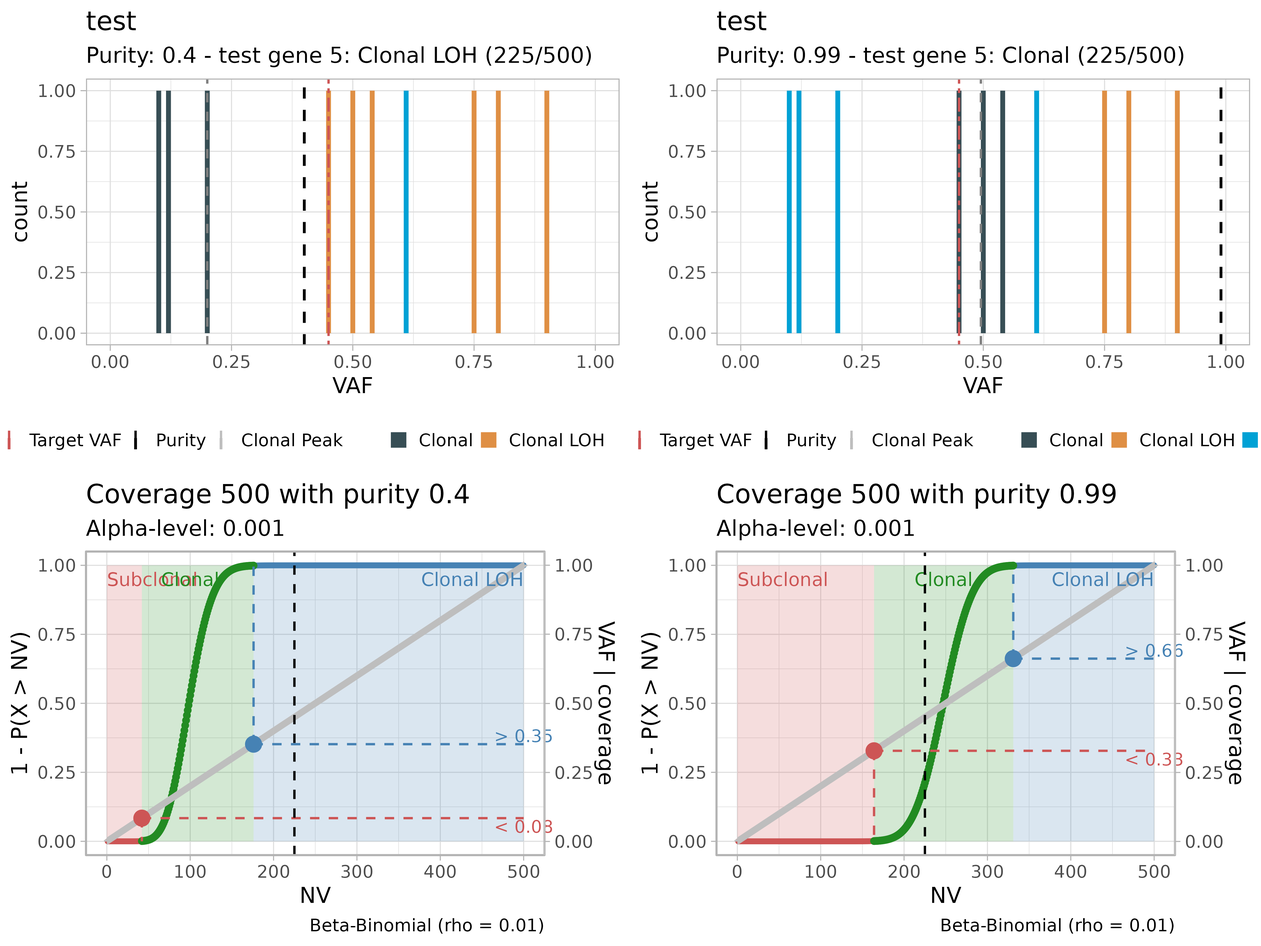
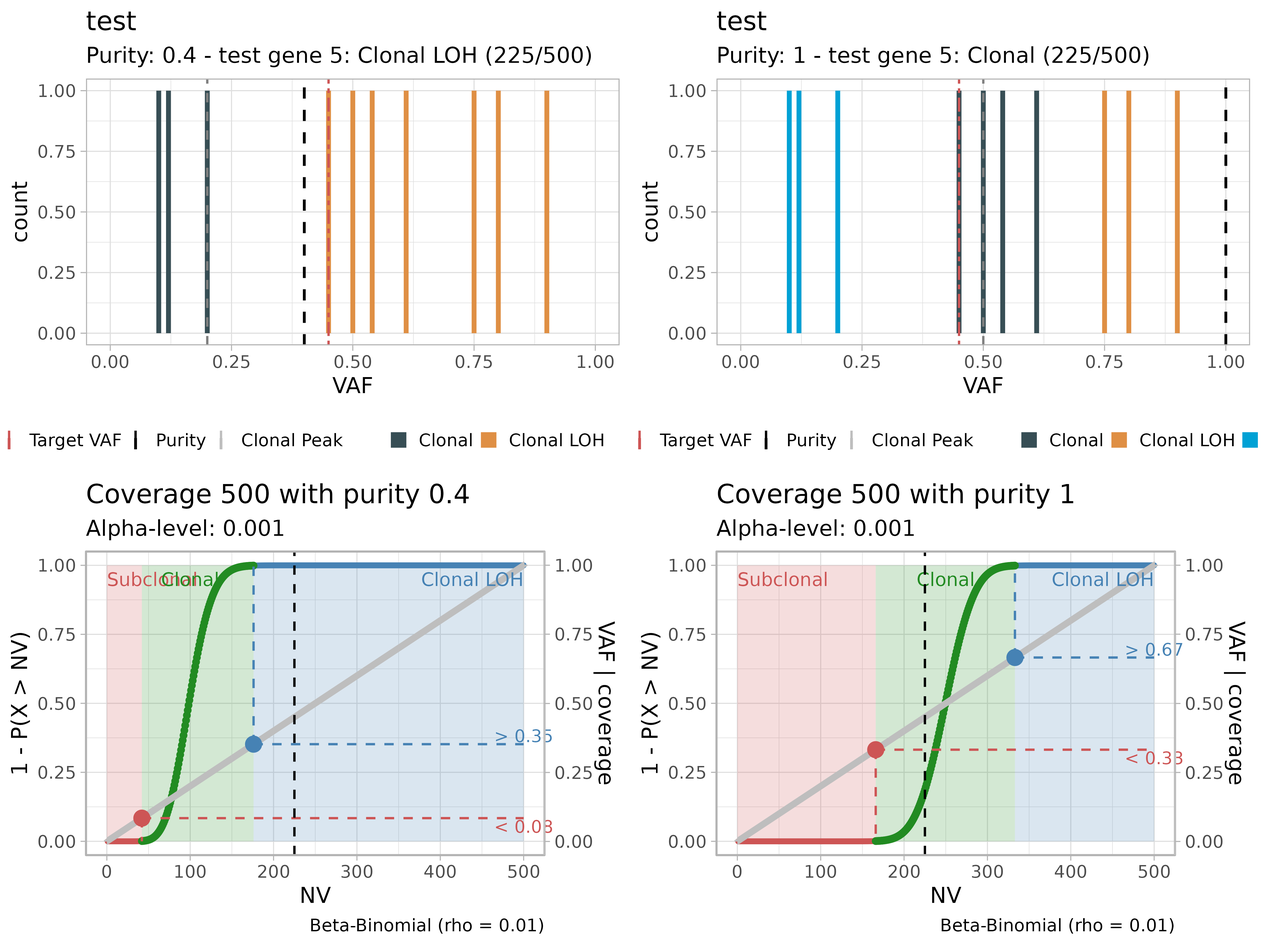
Deploying to gh-pages from @ caravagnalab/TAPACLOTH@dc2b1d9b0dccef9fcf69773aba0dadcae203551f 🚀

diff --git a/articles/purity-estimates.html b/articles/purity-estimates.html
@@ -118,7 +118,7 @@
 <div class="sourceCode" id="cb2"><pre class="downlit sourceCode r">
 <code class="sourceCode R"><span class="va">data</span> <span class="op">=</span> <span class="fu">dplyr</span><span class="fu">::</span><span class="fu"><a href="https://tibble.tidyverse.org/reference/tibble.html" class="external-link">tibble</a></span><span class="op">(</span>sample <span class="op">=</span> <span class="st">"test"</span>,
            gene <span class="op">=</span> <span class="fu"><a href="https://rdrr.io/r/base/paste.html" class="external-link">paste0</a></span><span class="op">(</span><span class="st">"test gene "</span>, <span class="fl">1</span><span class="op">:</span><span class="fl">10</span><span class="op">)</span>,
-           nv <span class="op">=</span> <span class="fu"><a href="https://rdrr.io/r/base/c.html" class="external-link">c</a></span><span class="op">(</span><span class="fl">50</span>, <span class="fl">60</span>, <span class="fl">100</span>, <span class="fl">250</span>, <span class="fl">225</span>, <span class="fl">270</span>, <span class="fl">35</span>, <span class="fl">375</span>, <span class="fl">400</span>, <span class="fl">450</span><span class="op">)</span>,
+           nv <span class="op">=</span> <span class="fu"><a href="https://rdrr.io/r/base/c.html" class="external-link">c</a></span><span class="op">(</span><span class="fl">10</span>, <span class="fl">12</span>, <span class="fl">20</span>, <span class="fl">50</span>, <span class="fl">45</span>, <span class="fl">54</span>, <span class="fl">61</span>, <span class="fl">75</span>, <span class="fl">80</span>, <span class="fl">90</span><span class="op">)</span><span class="op">*</span><span class="fl">5</span>,
            dp <span class="op">=</span> <span class="fl">500</span>,
            VAF <span class="op">=</span> <span class="fu"><a href="https://rdrr.io/r/base/c.html" class="external-link">c</a></span><span class="op">(</span><span class="fl">10</span>, <span class="fl">12</span>, <span class="fl">20</span>, <span class="fl">50</span>, <span class="fl">45</span>, <span class="fl">54</span>, <span class="fl">61</span>, <span class="fl">75</span>, <span class="fl">80</span>, <span class="fl">90</span><span class="op">)</span><span class="op">/</span><span class="fl">100</span>,
            purity <span class="op">=</span> <span class="fl">1</span>
@@ -134,7 +134,7 @@
 <span class="co">#&gt; <span style="color: #BCBCBC;"> 4</span> test   test gene 4    250   500  0.5       1</span>
 <span class="co">#&gt; <span style="color: #BCBCBC;"> 5</span> test   test gene 5    225   500  0.45      1</span>
 <span class="co">#&gt; <span style="color: #BCBCBC;"> 6</span> test   test gene 6    270   500  0.54      1</span>
-<span class="co">#&gt; <span style="color: #BCBCBC;"> 7</span> test   test gene 7     35   500  0.61      1</span>
+<span class="co">#&gt; <span style="color: #BCBCBC;"> 7</span> test   test gene 7    305   500  0.61      1</span>
 <span class="co">#&gt; <span style="color: #BCBCBC;"> 8</span> test   test gene 8    375   500  0.75      1</span>
 <span class="co">#&gt; <span style="color: #BCBCBC;"> 9</span> test   test gene 9    400   500  0.8       1</span>
 <span class="co">#&gt; <span style="color: #BCBCBC;">10</span> test   test gene 10   450   500  0.9       1</span></code></pre></div>
@@ -170,10 +170,10 @@
 <span class="co">#&gt; <span style="color: #00BBBB;">ℹ</span> <span style="font-weight: bold;">Bmix best fit</span> completed in 0 mins</span>
 <span class="co">#&gt; ── <span style="color: #000000; background-color: #BBBB00;">[ BMix ] My BMix model</span> n = 10 with <span style="color: #00BB00;">k = 3</span> component(s) (<span style="color: #00BB00;">3</span> + <span style="color: #00BB00;">0</span>) ───────────────</span>
 <span class="co">#&gt; • Clusters: π = 40% [<span style="color: #BBBB00;">Bin 2</span>], 30% [<span style="color: #BBBB00;">Bin 1</span>], and 30% [<span style="color: #BBBB00;">Bin 3</span>], with π &gt; 0.</span>
-<span class="co">#&gt; • Binomial <span style="color: #00BB00;">Bin 1</span> with mean = 0.496666666666667.</span>
-<span class="co">#&gt; • Binomial <span style="color: #00BB00;">Bin 2</span> with mean = 0.1225.</span>
-<span class="co">#&gt; • Binomial <span style="color: #00BB00;">Bin 3</span> with mean = 0.816666666666667.</span>
-<span class="co">#&gt; <span style="color: #00BBBB;">ℹ</span> Score (model selection): <span style="color: #00BB00;">ICL</span> = 188.55.</span>
+<span class="co">#&gt; • Binomial <span style="color: #00BB00;">Bin 1</span> with mean = 0.816666666666667.</span>
+<span class="co">#&gt; • Binomial <span style="color: #00BB00;">Bin 2</span> with mean = 0.525.</span>
+<span class="co">#&gt; • Binomial <span style="color: #00BB00;">Bin 3</span> with mean = 0.14.</span>
+<span class="co">#&gt; <span style="color: #00BBBB;">ℹ</span> Score (model selection): <span style="color: #00BB00;">ICL</span> = 196.12.</span>
 <span class="co">#&gt; Warning: `guides(&lt;scale&gt; = FALSE)` is deprecated. Please use `guides(&lt;scale&gt; =</span>
 <span class="co">#&gt; "none")` instead.</span>
 <span class="co">#&gt; Warning: Removed 6 rows containing missing values (geom_bar).</span>
@@ -183,29 +183,29 @@
 <span class="co">#&gt; ── <span style="color: #000000; background-color: #BB00BB;">[ TAPACLOTH ] </span> Purity estimate using BMix:  ─────────────────────────────────</span>
 <span class="co">#&gt; ── <span style="color: #000000; background-color: #BBBB00;">[ BMix ] My BMix model</span> n = 10 with <span style="color: #00BB00;">k = 3</span> component(s) (<span style="color: #00BB00;">3</span> + <span style="color: #00BB00;">0</span>) ───────────────</span>
 <span class="co">#&gt; • Clusters: π = 40% [<span style="color: #BBBB00;">Bin 2</span>], 30% [<span style="color: #BBBB00;">Bin 1</span>], and 30% [<span style="color: #BBBB00;">Bin 3</span>], with π &gt; 0.</span>
-<span class="co">#&gt; • Binomial <span style="color: #00BB00;">Bin 1</span> with mean = 0.496666666666667.</span>
-<span class="co">#&gt; • Binomial <span style="color: #00BB00;">Bin 2</span> with mean = 0.1225.</span>
-<span class="co">#&gt; • Binomial <span style="color: #00BB00;">Bin 3</span> with mean = 0.816666666666667.</span>
-<span class="co">#&gt; <span style="color: #00BBBB;">ℹ</span> Score (model selection): <span style="color: #00BB00;">ICL</span> = 188.55.</span>
+<span class="co">#&gt; • Binomial <span style="color: #00BB00;">Bin 1</span> with mean = 0.816666666666667.</span>
+<span class="co">#&gt; • Binomial <span style="color: #00BB00;">Bin 2</span> with mean = 0.525.</span>
+<span class="co">#&gt; • Binomial <span style="color: #00BB00;">Bin 3</span> with mean = 0.14.</span>
+<span class="co">#&gt; <span style="color: #00BBBB;">ℹ</span> Score (model selection): <span style="color: #00BB00;">ICL</span> = 196.12.</span>
 <span class="co">#&gt; ── <span style="color: #000000; background-color: #BB00BB;">[ TAPACLOTH ] </span> Data:  ───────────────────────────────────────────────────────</span>
 <span class="co">#&gt; <span style="color: #949494;"># A tibble: 10 × 8</span></span>
 <span class="co">#&gt;    sample gene            nv    dp   VAF purity purity_bmix reliability</span>
 <span class="co">#&gt;    <span style="color: #949494; font-style: italic;">&lt;chr&gt;</span>  <span style="color: #949494; font-style: italic;">&lt;chr&gt;</span>        <span style="color: #949494; font-style: italic;">&lt;dbl&gt;</span> <span style="color: #949494; font-style: italic;">&lt;dbl&gt;</span> <span style="color: #949494; font-style: italic;">&lt;dbl&gt;</span>  <span style="color: #949494; font-style: italic;">&lt;dbl&gt;</span>       <span style="color: #949494; font-style: italic;">&lt;dbl&gt;</span>       <span style="color: #949494; font-style: italic;">&lt;dbl&gt;</span></span>
-<span class="co">#&gt; <span style="color: #BCBCBC;"> 1</span> test   test gene 1     50   500  0.1       1        0.99       0.993</span>
-<span class="co">#&gt; <span style="color: #BCBCBC;"> 2</span> test   test gene 2     60   500  0.12      1        0.99       0.993</span>
-<span class="co">#&gt; <span style="color: #BCBCBC;"> 3</span> test   test gene 3    100   500  0.2       1        0.99       0.993</span>
-<span class="co">#&gt; <span style="color: #BCBCBC;"> 4</span> test   test gene 4    250   500  0.5       1        0.99       0.993</span>
-<span class="co">#&gt; <span style="color: #BCBCBC;"> 5</span> test   test gene 5    225   500  0.45      1        0.99       0.993</span>
-<span class="co">#&gt; <span style="color: #BCBCBC;"> 6</span> test   test gene 6    270   500  0.54      1        0.99       0.993</span>
-<span class="co">#&gt; <span style="color: #BCBCBC;"> 7</span> test   test gene 7     35   500  0.61      1        0.99       0.993</span>
-<span class="co">#&gt; <span style="color: #BCBCBC;"> 8</span> test   test gene 8    375   500  0.75      1        0.99       0.993</span>
-<span class="co">#&gt; <span style="color: #BCBCBC;"> 9</span> test   test gene 9    400   500  0.8       1        0.99       0.993</span>
-<span class="co">#&gt; <span style="color: #BCBCBC;">10</span> test   test gene 10   450   500  0.9       1        0.99       0.993</span></code></pre></div>
+<span class="co">#&gt; <span style="color: #BCBCBC;"> 1</span> test   test gene 1     50   500  0.1       1           1       0.952</span>
+<span class="co">#&gt; <span style="color: #BCBCBC;"> 2</span> test   test gene 2     60   500  0.12      1           1       0.952</span>
+<span class="co">#&gt; <span style="color: #BCBCBC;"> 3</span> test   test gene 3    100   500  0.2       1           1       0.952</span>
+<span class="co">#&gt; <span style="color: #BCBCBC;"> 4</span> test   test gene 4    250   500  0.5       1           1       0.952</span>
+<span class="co">#&gt; <span style="color: #BCBCBC;"> 5</span> test   test gene 5    225   500  0.45      1           1       0.952</span>
+<span class="co">#&gt; <span style="color: #BCBCBC;"> 6</span> test   test gene 6    270   500  0.54      1           1       0.952</span>
+<span class="co">#&gt; <span style="color: #BCBCBC;"> 7</span> test   test gene 7    305   500  0.61      1           1       0.952</span>
+<span class="co">#&gt; <span style="color: #BCBCBC;"> 8</span> test   test gene 8    375   500  0.75      1           1       0.952</span>
+<span class="co">#&gt; <span style="color: #BCBCBC;"> 9</span> test   test gene 9    400   500  0.8       1           1       0.952</span>
+<span class="co">#&gt; <span style="color: #BCBCBC;">10</span> test   test gene 10   450   500  0.9       1           1       0.952</span></code></pre></div>
 <p>This test shows that the inferred purity matches the true value, and a reliability score of 100% is reported. If we provide an input purity estimate of the cancer sample that is underestimated with respect to ground-truth, TAPACLOTH retrieves the correct purity value and reports a reliability score for the input estimate of ~40%.</p>
 <div class="sourceCode" id="cb4"><pre class="downlit sourceCode r">
 <code class="sourceCode R"><span class="va">data</span> <span class="op">=</span> <span class="fu">dplyr</span><span class="fu">::</span><span class="fu"><a href="https://tibble.tidyverse.org/reference/tibble.html" class="external-link">tibble</a></span><span class="op">(</span>sample <span class="op">=</span> <span class="st">"test"</span>,
            gene <span class="op">=</span> <span class="fu"><a href="https://rdrr.io/r/base/paste.html" class="external-link">paste0</a></span><span class="op">(</span><span class="st">"test gene "</span>, <span class="fl">1</span><span class="op">:</span><span class="fl">10</span><span class="op">)</span>,
-           nv <span class="op">=</span> <span class="fu"><a href="https://rdrr.io/r/base/c.html" class="external-link">c</a></span><span class="op">(</span><span class="fl">50</span>, <span class="fl">60</span>, <span class="fl">100</span>, <span class="fl">250</span>, <span class="fl">225</span>, <span class="fl">270</span>, <span class="fl">35</span>, <span class="fl">375</span>, <span class="fl">400</span>, <span class="fl">450</span><span class="op">)</span>,
+           nv <span class="op">=</span>  <span class="fu"><a href="https://rdrr.io/r/base/c.html" class="external-link">c</a></span><span class="op">(</span><span class="fl">10</span>, <span class="fl">12</span>, <span class="fl">20</span>, <span class="fl">50</span>, <span class="fl">45</span>, <span class="fl">54</span>, <span class="fl">61</span>, <span class="fl">75</span>, <span class="fl">80</span>, <span class="fl">90</span><span class="op">)</span><span class="op">*</span><span class="fl">5</span>,
            dp <span class="op">=</span> <span class="fl">500</span>,
            VAF <span class="op">=</span> <span class="fu"><a href="https://rdrr.io/r/base/c.html" class="external-link">c</a></span><span class="op">(</span><span class="fl">10</span>, <span class="fl">12</span>, <span class="fl">20</span>, <span class="fl">50</span>, <span class="fl">45</span>, <span class="fl">54</span>, <span class="fl">61</span>, <span class="fl">75</span>, <span class="fl">80</span>, <span class="fl">90</span><span class="op">)</span><span class="op">/</span><span class="fl">100</span>,
            purity <span class="op">=</span> <span class="fl">0.4</span>
@@ -221,7 +221,7 @@
 <span class="co">#&gt; <span style="color: #BCBCBC;"> 4</span> test   test gene 4    250   500  0.5     0.4</span>
 <span class="co">#&gt; <span style="color: #BCBCBC;"> 5</span> test   test gene 5    225   500  0.45    0.4</span>
 <span class="co">#&gt; <span style="color: #BCBCBC;"> 6</span> test   test gene 6    270   500  0.54    0.4</span>
-<span class="co">#&gt; <span style="color: #BCBCBC;"> 7</span> test   test gene 7     35   500  0.61    0.4</span>
+<span class="co">#&gt; <span style="color: #BCBCBC;"> 7</span> test   test gene 7    305   500  0.61    0.4</span>
 <span class="co">#&gt; <span style="color: #BCBCBC;"> 8</span> test   test gene 8    375   500  0.75    0.4</span>
 <span class="co">#&gt; <span style="color: #BCBCBC;"> 9</span> test   test gene 9    400   500  0.8     0.4</span>
 <span class="co">#&gt; <span style="color: #BCBCBC;">10</span> test   test gene 10   450   500  0.9     0.4</span></code></pre></div>
@@ -239,10 +239,10 @@
 <span class="co">#&gt; <span style="color: #00BBBB;">ℹ</span> <span style="font-weight: bold;">Bmix best fit</span> completed in 0 mins</span>
 <span class="co">#&gt; ── <span style="color: #000000; background-color: #BBBB00;">[ BMix ] My BMix model</span> n = 10 with <span style="color: #00BB00;">k = 3</span> component(s) (<span style="color: #00BB00;">3</span> + <span style="color: #00BB00;">0</span>) ───────────────</span>
 <span class="co">#&gt; • Clusters: π = 40% [<span style="color: #BBBB00;">Bin 3</span>], 30% [<span style="color: #BBBB00;">Bin 1</span>], and 30% [<span style="color: #BBBB00;">Bin 2</span>], with π &gt; 0.</span>
-<span class="co">#&gt; • Binomial <span style="color: #00BB00;">Bin 1</span> with mean = 0.496666666666667.</span>
+<span class="co">#&gt; • Binomial <span style="color: #00BB00;">Bin 1</span> with mean = 0.14.</span>
 <span class="co">#&gt; • Binomial <span style="color: #00BB00;">Bin 2</span> with mean = 0.816666666666667.</span>
-<span class="co">#&gt; • Binomial <span style="color: #00BB00;">Bin 3</span> with mean = 0.1225.</span>
-<span class="co">#&gt; <span style="color: #00BBBB;">ℹ</span> Score (model selection): <span style="color: #00BB00;">ICL</span> = 191.78.</span>
+<span class="co">#&gt; • Binomial <span style="color: #00BB00;">Bin 3</span> with mean = 0.525.</span>
+<span class="co">#&gt; <span style="color: #00BBBB;">ℹ</span> Score (model selection): <span style="color: #00BB00;">ICL</span> = 193.98.</span>
 <span class="co">#&gt; Warning: `guides(&lt;scale&gt; = FALSE)` is deprecated. Please use `guides(&lt;scale&gt; =</span>
 <span class="co">#&gt; "none")` instead.</span>
 <span class="co">#&gt; Warning: Removed 6 rows containing missing values (geom_bar).</span>
@@ -252,24 +252,24 @@
 <span class="co">#&gt; ── <span style="color: #000000; background-color: #BB00BB;">[ TAPACLOTH ] </span> Purity estimate using BMix:  ─────────────────────────────────</span>
 <span class="co">#&gt; ── <span style="color: #000000; background-color: #BBBB00;">[ BMix ] My BMix model</span> n = 10 with <span style="color: #00BB00;">k = 3</span> component(s) (<span style="color: #00BB00;">3</span> + <span style="color: #00BB00;">0</span>) ───────────────</span>
 <span class="co">#&gt; • Clusters: π = 40% [<span style="color: #BBBB00;">Bin 3</span>], 30% [<span style="color: #BBBB00;">Bin 1</span>], and 30% [<span style="color: #BBBB00;">Bin 2</span>], with π &gt; 0.</span>
-<span class="co">#&gt; • Binomial <span style="color: #00BB00;">Bin 1</span> with mean = 0.496666666666667.</span>
+<span class="co">#&gt; • Binomial <span style="color: #00BB00;">Bin 1</span> with mean = 0.14.</span>
 <span class="co">#&gt; • Binomial <span style="color: #00BB00;">Bin 2</span> with mean = 0.816666666666667.</span>
-<span class="co">#&gt; • Binomial <span style="color: #00BB00;">Bin 3</span> with mean = 0.1225.</span>
-<span class="co">#&gt; <span style="color: #00BBBB;">ℹ</span> Score (model selection): <span style="color: #00BB00;">ICL</span> = 191.78.</span>
+<span class="co">#&gt; • Binomial <span style="color: #00BB00;">Bin 3</span> with mean = 0.525.</span>
+<span class="co">#&gt; <span style="color: #00BBBB;">ℹ</span> Score (model selection): <span style="color: #00BB00;">ICL</span> = 193.98.</span>
 <span class="co">#&gt; ── <span style="color: #000000; background-color: #BB00BB;">[ TAPACLOTH ] </span> Data:  ───────────────────────────────────────────────────────</span>
 <span class="co">#&gt; <span style="color: #949494;"># A tibble: 10 × 8</span></span>
 <span class="co">#&gt;    sample gene            nv    dp   VAF purity purity_bmix reliability</span>
 <span class="co">#&gt;    <span style="color: #949494; font-style: italic;">&lt;chr&gt;</span>  <span style="color: #949494; font-style: italic;">&lt;chr&gt;</span>        <span style="color: #949494; font-style: italic;">&lt;dbl&gt;</span> <span style="color: #949494; font-style: italic;">&lt;dbl&gt;</span> <span style="color: #949494; font-style: italic;">&lt;dbl&gt;</span>  <span style="color: #949494; font-style: italic;">&lt;dbl&gt;</span>       <span style="color: #949494; font-style: italic;">&lt;dbl&gt;</span>       <span style="color: #949494; font-style: italic;">&lt;dbl&gt;</span></span>
-<span class="co">#&gt; <span style="color: #BCBCBC;"> 1</span> test   test gene 1     50   500  0.1     0.4        0.99       0.403</span>
-<span class="co">#&gt; <span style="color: #BCBCBC;"> 2</span> test   test gene 2     60   500  0.12    0.4        0.99       0.403</span>
-<span class="co">#&gt; <span style="color: #BCBCBC;"> 3</span> test   test gene 3    100   500  0.2     0.4        0.99       0.403</span>
-<span class="co">#&gt; <span style="color: #BCBCBC;"> 4</span> test   test gene 4    250   500  0.5     0.4        0.99       0.403</span>
-<span class="co">#&gt; <span style="color: #BCBCBC;"> 5</span> test   test gene 5    225   500  0.45    0.4        0.99       0.403</span>
-<span class="co">#&gt; <span style="color: #BCBCBC;"> 6</span> test   test gene 6    270   500  0.54    0.4        0.99       0.403</span>
-<span class="co">#&gt; <span style="color: #BCBCBC;"> 7</span> test   test gene 7     35   500  0.61    0.4        0.99       0.403</span>
-<span class="co">#&gt; <span style="color: #BCBCBC;"> 8</span> test   test gene 8    375   500  0.75    0.4        0.99       0.403</span>
-<span class="co">#&gt; <span style="color: #BCBCBC;"> 9</span> test   test gene 9    400   500  0.8     0.4        0.99       0.403</span>
-<span class="co">#&gt; <span style="color: #BCBCBC;">10</span> test   test gene 10   450   500  0.9     0.4        0.99       0.403</span></code></pre></div>
+<span class="co">#&gt; <span style="color: #BCBCBC;"> 1</span> test   test gene 1     50   500  0.1     0.4           1       0.381</span>
+<span class="co">#&gt; <span style="color: #BCBCBC;"> 2</span> test   test gene 2     60   500  0.12    0.4           1       0.381</span>
+<span class="co">#&gt; <span style="color: #BCBCBC;"> 3</span> test   test gene 3    100   500  0.2     0.4           1       0.381</span>
+<span class="co">#&gt; <span style="color: #BCBCBC;"> 4</span> test   test gene 4    250   500  0.5     0.4           1       0.381</span>
+<span class="co">#&gt; <span style="color: #BCBCBC;"> 5</span> test   test gene 5    225   500  0.45    0.4           1       0.381</span>
+<span class="co">#&gt; <span style="color: #BCBCBC;"> 6</span> test   test gene 6    270   500  0.54    0.4           1       0.381</span>
+<span class="co">#&gt; <span style="color: #BCBCBC;"> 7</span> test   test gene 7    305   500  0.61    0.4           1       0.381</span>
+<span class="co">#&gt; <span style="color: #BCBCBC;"> 8</span> test   test gene 8    375   500  0.75    0.4           1       0.381</span>
+<span class="co">#&gt; <span style="color: #BCBCBC;"> 9</span> test   test gene 9    400   500  0.8     0.4           1       0.381</span>
+<span class="co">#&gt; <span style="color: #BCBCBC;">10</span> test   test gene 10   450   500  0.9     0.4           1       0.381</span></code></pre></div>
 <p>Results of the fitting procedure can be inspected by printing the <code>purity_bmix$plot_bmix</code>. The output plot shows (left) the assignment of variants to the fitted mixture components, (center) the fitted densities and a comparison between the tested model, based on three different likelihood measures (BIC, ICL and NLL).</p>
 <div class="sourceCode" id="cb6"><pre class="downlit sourceCode r">
 <code class="sourceCode R"><span class="va">purity_bmix</span><span class="op">$</span><span class="va">plot_bmix</span></code></pre></div>
@@ -305,7 +305,7 @@
 <span class="co">#&gt; <span style="color: #BCBCBC;"> 4</span> test   test gene 4    250   500  0.5     0.4 Clonal LOH </span>
 <span class="co">#&gt; <span style="color: #BCBCBC;"> 5</span> test   test gene 5    225   500  0.45    0.4 Clonal LOH </span>
 <span class="co">#&gt; <span style="color: #BCBCBC;"> 6</span> test   test gene 6    270   500  0.54    0.4 Clonal LOH </span>
-<span class="co">#&gt; <span style="color: #BCBCBC;"> 7</span> test   test gene 7     35   500  0.61    0.4 Subclonal  </span>
+<span class="co">#&gt; <span style="color: #BCBCBC;"> 7</span> test   test gene 7    305   500  0.61    0.4 Clonal LOH </span>
 <span class="co">#&gt; <span style="color: #BCBCBC;"> 8</span> test   test gene 8    375   500  0.75    0.4 Clonal LOH </span>
 <span class="co">#&gt; <span style="color: #BCBCBC;"> 9</span> test   test gene 9    400   500  0.8     0.4 Clonal LOH </span>
 <span class="co">#&gt; <span style="color: #BCBCBC;">10</span> test   test gene 10   450   500  0.9     0.4 Clonal LOH</span></code></pre></div>
@@ -322,11 +322,11 @@
 <span class="co">#&gt; <span style="color: #00BBBB;">ℹ</span> Binomials k_B = <span style="color: #00BB00;">1</span>, <span style="color: #00BB00;">2</span>, and <span style="color: #00BB00;">3</span>, Beta-Binomials k_BB = <span style="color: #00BB00;">0</span>; 6 fits to run.</span>
 <span class="co">#&gt; <span style="color: #00BBBB;">ℹ</span> <span style="font-weight: bold;">Bmix best fit</span> completed in 0 mins</span>
 <span class="co">#&gt; ── <span style="color: #000000; background-color: #BBBB00;">[ BMix ] My BMix model</span> n = 10 with <span style="color: #00BB00;">k = 3</span> component(s) (<span style="color: #00BB00;">3</span> + <span style="color: #00BB00;">0</span>) ───────────────</span>
-<span class="co">#&gt; • Clusters: π = 40% [<span style="color: #BBBB00;">Bin 3</span>], 30% [<span style="color: #BBBB00;">Bin 1</span>], and 30% [<span style="color: #BBBB00;">Bin 2</span>], with π &gt; 0.</span>
-<span class="co">#&gt; • Binomial <span style="color: #00BB00;">Bin 1</span> with mean = 0.496666666666667.</span>
+<span class="co">#&gt; • Clusters: π = 40% [<span style="color: #BBBB00;">Bin 1</span>], 30% [<span style="color: #BBBB00;">Bin 2</span>], and 30% [<span style="color: #BBBB00;">Bin 3</span>], with π &gt; 0.</span>
+<span class="co">#&gt; • Binomial <span style="color: #00BB00;">Bin 1</span> with mean = 0.525.</span>
 <span class="co">#&gt; • Binomial <span style="color: #00BB00;">Bin 2</span> with mean = 0.816666666666667.</span>
-<span class="co">#&gt; • Binomial <span style="color: #00BB00;">Bin 3</span> with mean = 0.1225.</span>
-<span class="co">#&gt; <span style="color: #00BBBB;">ℹ</span> Score (model selection): <span style="color: #00BB00;">ICL</span> = 192.22.</span>
+<span class="co">#&gt; • Binomial <span style="color: #00BB00;">Bin 3</span> with mean = 0.14.</span>
+<span class="co">#&gt; <span style="color: #00BBBB;">ℹ</span> Score (model selection): <span style="color: #00BB00;">ICL</span> = 193.87.</span>
 <span class="co">#&gt; Warning: `guides(&lt;scale&gt; = FALSE)` is deprecated. Please use `guides(&lt;scale&gt; =</span>
 <span class="co">#&gt; "none")` instead.</span>
 <span class="co">#&gt; Warning: Removed 6 rows containing missing values (geom_bar).</span>
@@ -340,16 +340,16 @@
 <span class="co">#&gt; <span style="color: #949494;"># A tibble: 10 × 8</span></span>
 <span class="co">#&gt;    sample gene            nv    dp   VAF input_purity purity reliability</span>
 <span class="co">#&gt;    <span style="color: #949494; font-style: italic;">&lt;chr&gt;</span>  <span style="color: #949494; font-style: italic;">&lt;chr&gt;</span>        <span style="color: #949494; font-style: italic;">&lt;dbl&gt;</span> <span style="color: #949494; font-style: italic;">&lt;dbl&gt;</span> <span style="color: #949494; font-style: italic;">&lt;dbl&gt;</span>        <span style="color: #949494; font-style: italic;">&lt;dbl&gt;</span>  <span style="color: #949494; font-style: italic;">&lt;dbl&gt;</span>       <span style="color: #949494; font-style: italic;">&lt;dbl&gt;</span></span>
-<span class="co">#&gt; <span style="color: #BCBCBC;"> 1</span> test   test gene 1     50   500  0.1           0.4   0.99       0.403</span>
-<span class="co">#&gt; <span style="color: #BCBCBC;"> 2</span> test   test gene 2     60   500  0.12          0.4   0.99       0.403</span>
-<span class="co">#&gt; <span style="color: #BCBCBC;"> 3</span> test   test gene 3    100   500  0.2           0.4   0.99       0.403</span>
-<span class="co">#&gt; <span style="color: #BCBCBC;"> 4</span> test   test gene 4    250   500  0.5           0.4   0.99       0.403</span>
-<span class="co">#&gt; <span style="color: #BCBCBC;"> 5</span> test   test gene 5    225   500  0.45          0.4   0.99       0.403</span>
-<span class="co">#&gt; <span style="color: #BCBCBC;"> 6</span> test   test gene 6    270   500  0.54          0.4   0.99       0.403</span>
-<span class="co">#&gt; <span style="color: #BCBCBC;"> 7</span> test   test gene 7     35   500  0.61          0.4   0.99       0.403</span>
-<span class="co">#&gt; <span style="color: #BCBCBC;"> 8</span> test   test gene 8    375   500  0.75          0.4   0.99       0.403</span>
-<span class="co">#&gt; <span style="color: #BCBCBC;"> 9</span> test   test gene 9    400   500  0.8           0.4   0.99       0.403</span>
-<span class="co">#&gt; <span style="color: #BCBCBC;">10</span> test   test gene 10   450   500  0.9           0.4   0.99       0.403</span></code></pre></div>
+<span class="co">#&gt; <span style="color: #BCBCBC;"> 1</span> test   test gene 1     50   500  0.1           0.4      1       0.381</span>
+<span class="co">#&gt; <span style="color: #BCBCBC;"> 2</span> test   test gene 2     60   500  0.12          0.4      1       0.381</span>
+<span class="co">#&gt; <span style="color: #BCBCBC;"> 3</span> test   test gene 3    100   500  0.2           0.4      1       0.381</span>
+<span class="co">#&gt; <span style="color: #BCBCBC;"> 4</span> test   test gene 4    250   500  0.5           0.4      1       0.381</span>
+<span class="co">#&gt; <span style="color: #BCBCBC;"> 5</span> test   test gene 5    225   500  0.45          0.4      1       0.381</span>
+<span class="co">#&gt; <span style="color: #BCBCBC;"> 6</span> test   test gene 6    270   500  0.54          0.4      1       0.381</span>
+<span class="co">#&gt; <span style="color: #BCBCBC;"> 7</span> test   test gene 7    305   500  0.61          0.4      1       0.381</span>
+<span class="co">#&gt; <span style="color: #BCBCBC;"> 8</span> test   test gene 8    375   500  0.75          0.4      1       0.381</span>
+<span class="co">#&gt; <span style="color: #BCBCBC;"> 9</span> test   test gene 9    400   500  0.8           0.4      1       0.381</span>
+<span class="co">#&gt; <span style="color: #BCBCBC;">10</span> test   test gene 10   450   500  0.9           0.4      1       0.381</span></code></pre></div>
 <div class="sourceCode" id="cb9"><pre class="downlit sourceCode r">
 <code class="sourceCode R"><span class="va">classified_data_r</span> <span class="op">=</span> <span class="fu"><a href="../reference/run_classifier.html">run_classifier</a></span><span class="op">(</span>
   data <span class="op">=</span> <span class="va">data</span>,
@@ -365,16 +365,16 @@
 <span class="co">#&gt; <span style="color: #949494;"># A tibble: 10 × 9</span></span>
 <span class="co">#&gt;    sample gene        nv    dp   VAF input_purity purity reliability class_binom</span>
 <span class="co">#&gt;    <span style="color: #949494; font-style: italic;">&lt;chr&gt;</span>  <span style="color: #949494; font-style: italic;">&lt;chr&gt;</span>    <span style="color: #949494; font-style: italic;">&lt;dbl&gt;</span> <span style="color: #949494; font-style: italic;">&lt;dbl&gt;</span> <span style="color: #949494; font-style: italic;">&lt;dbl&gt;</span>        <span style="color: #949494; font-style: italic;">&lt;dbl&gt;</span>  <span style="color: #949494; font-style: italic;">&lt;dbl&gt;</span>       <span style="color: #949494; font-style: italic;">&lt;dbl&gt;</span> <span style="color: #949494; font-style: italic;">&lt;chr&gt;</span>      </span>
-<span class="co">#&gt; <span style="color: #BCBCBC;"> 1</span> test   test ge…    50   500  0.1           0.4   0.99       0.403 Subclonal  </span>
-<span class="co">#&gt; <span style="color: #BCBCBC;"> 2</span> test   test ge…    60   500  0.12          0.4   0.99       0.403 Subclonal  </span>
-<span class="co">#&gt; <span style="color: #BCBCBC;"> 3</span> test   test ge…   100   500  0.2           0.4   0.99       0.403 Subclonal  </span>
-<span class="co">#&gt; <span style="color: #BCBCBC;"> 4</span> test   test ge…   250   500  0.5           0.4   0.99       0.403 Clonal     </span>
-<span class="co">#&gt; <span style="color: #BCBCBC;"> 5</span> test   test ge…   225   500  0.45          0.4   0.99       0.403 Clonal     </span>
-<span class="co">#&gt; <span style="color: #BCBCBC;"> 6</span> test   test ge…   270   500  0.54          0.4   0.99       0.403 Clonal     </span>
-<span class="co">#&gt; <span style="color: #BCBCBC;"> 7</span> test   test ge…    35   500  0.61          0.4   0.99       0.403 Subclonal  </span>
-<span class="co">#&gt; <span style="color: #BCBCBC;"> 8</span> test   test ge…   375   500  0.75          0.4   0.99       0.403 Clonal LOH </span>
-<span class="co">#&gt; <span style="color: #BCBCBC;"> 9</span> test   test ge…   400   500  0.8           0.4   0.99       0.403 Clonal LOH </span>
-<span class="co">#&gt; <span style="color: #BCBCBC;">10</span> test   test ge…   450   500  0.9           0.4   0.99       0.403 Clonal LOH</span></code></pre></div>
+<span class="co">#&gt; <span style="color: #BCBCBC;"> 1</span> test   test ge…    50   500  0.1           0.4      1       0.381 Subclonal  </span>
+<span class="co">#&gt; <span style="color: #BCBCBC;"> 2</span> test   test ge…    60   500  0.12          0.4      1       0.381 Subclonal  </span>
+<span class="co">#&gt; <span style="color: #BCBCBC;"> 3</span> test   test ge…   100   500  0.2           0.4      1       0.381 Subclonal  </span>
+<span class="co">#&gt; <span style="color: #BCBCBC;"> 4</span> test   test ge…   250   500  0.5           0.4      1       0.381 Clonal     </span>
+<span class="co">#&gt; <span style="color: #BCBCBC;"> 5</span> test   test ge…   225   500  0.45          0.4      1       0.381 Clonal     </span>
+<span class="co">#&gt; <span style="color: #BCBCBC;"> 6</span> test   test ge…   270   500  0.54          0.4      1       0.381 Clonal     </span>
+<span class="co">#&gt; <span style="color: #BCBCBC;"> 7</span> test   test ge…   305   500  0.61          0.4      1       0.381 Clonal     </span>
+<span class="co">#&gt; <span style="color: #BCBCBC;"> 8</span> test   test ge…   375   500  0.75          0.4      1       0.381 Clonal LOH </span>
+<span class="co">#&gt; <span style="color: #BCBCBC;"> 9</span> test   test ge…   400   500  0.8           0.4      1       0.381 Clonal LOH </span>
+<span class="co">#&gt; <span style="color: #BCBCBC;">10</span> test   test ge…   450   500  0.9           0.4      1       0.381 Clonal LOH</span></code></pre></div>
 <div class="sourceCode" id="cb10"><pre class="downlit sourceCode r">
 <code class="sourceCode R"><span class="fu">ggpubr</span><span class="fu">::</span><span class="fu"><a href="https://rpkgs.datanovia.com/ggpubr/reference/ggarrange.html" class="external-link">ggarrange</a></span><span class="op">(</span>plotlist <span class="op">=</span> <span class="fu"><a href="https://rdrr.io/r/base/list.html" class="external-link">list</a></span><span class="op">(</span>
   <span class="fu"><a href="https://rdrr.io/r/graphics/plot.default.html" class="external-link">plot</a></span><span class="op">(</span>
@@ -391,8 +391,8 @@
 ncol <span class="op">=</span> <span class="fl">2</span>,
 nrow <span class="op">=</span> <span class="fl">1</span><span class="op">)</span>
 <span class="co">#&gt; <span style="color: #00BB00;">✔</span> Loading <span style="color: #00BB00;">CNAqc</span>, <span style="font-style: italic;">'Copy Number Alteration quality check'</span>. Support : <span style="color: #0000BB; font-style: italic;">&lt;https://caravagn.github.io/CNAqc/&gt;</span></span>
-<span class="co">#&gt; Warning: Removed 6 rows containing missing values (geom_bar).</span>
-<span class="co">#&gt; Removed 6 rows containing missing values (geom_bar).</span></code></pre></div>
+<span class="co">#&gt; Warning: Removed 4 rows containing missing values (geom_bar).</span>
+<span class="co">#&gt; Warning: Removed 6 rows containing missing values (geom_bar).</span></code></pre></div>
 <p><img src="purity-estimates_files/figure-html/unnamed-chunk-10-1.png" width="2400"> This test shows the impact of an incorrect purity estimate on the classification of variants, and how TAPACLOTH can be used to improve the results when the input estimate is not reliable enough. An incorrect purity estimate can result in a bad variant classifcation and this could eventually lead to wrong conclusions in downstream analyses.</p>
 </div>
 </div>
